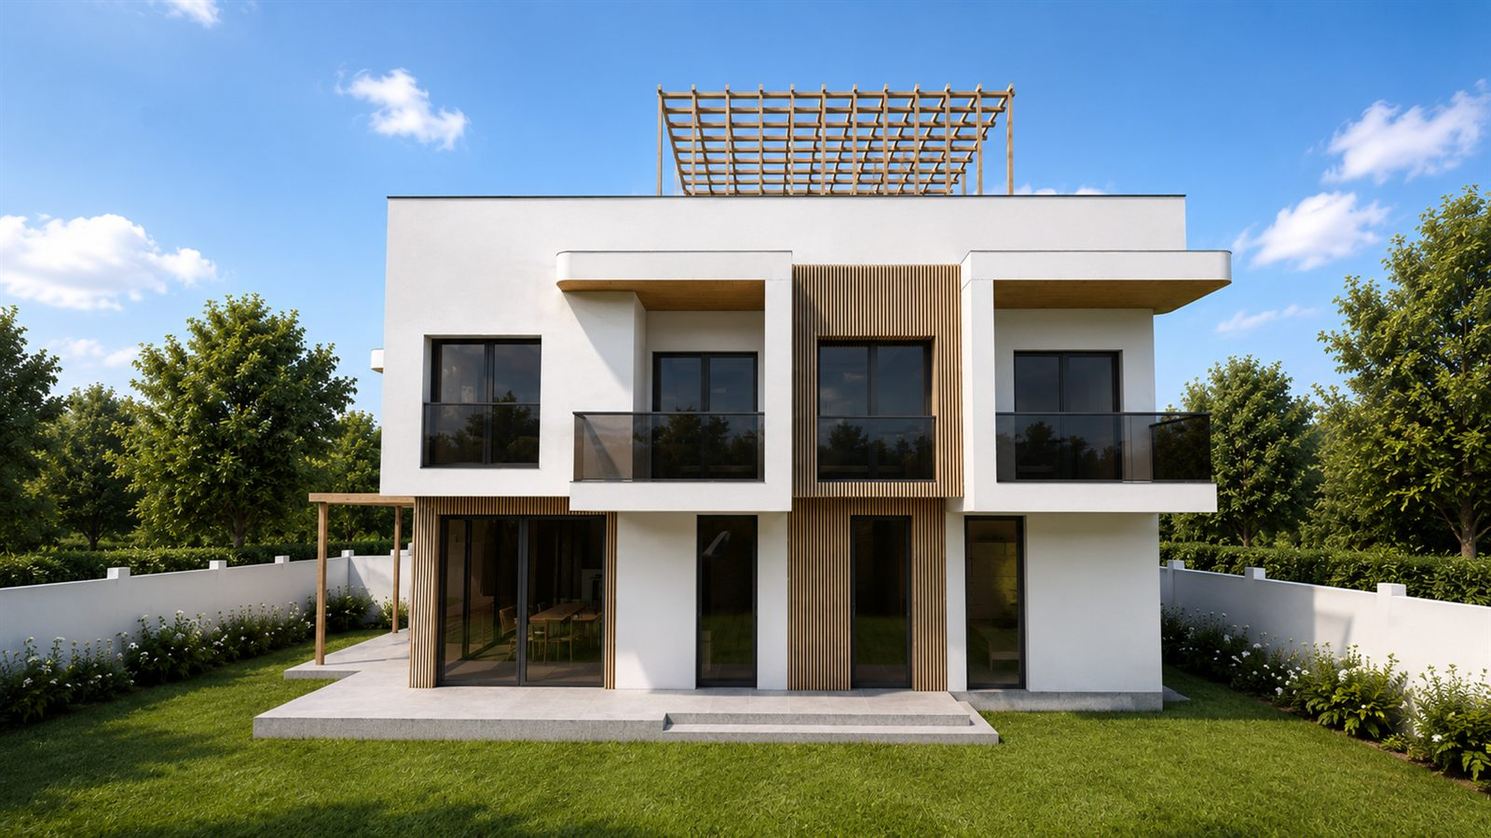
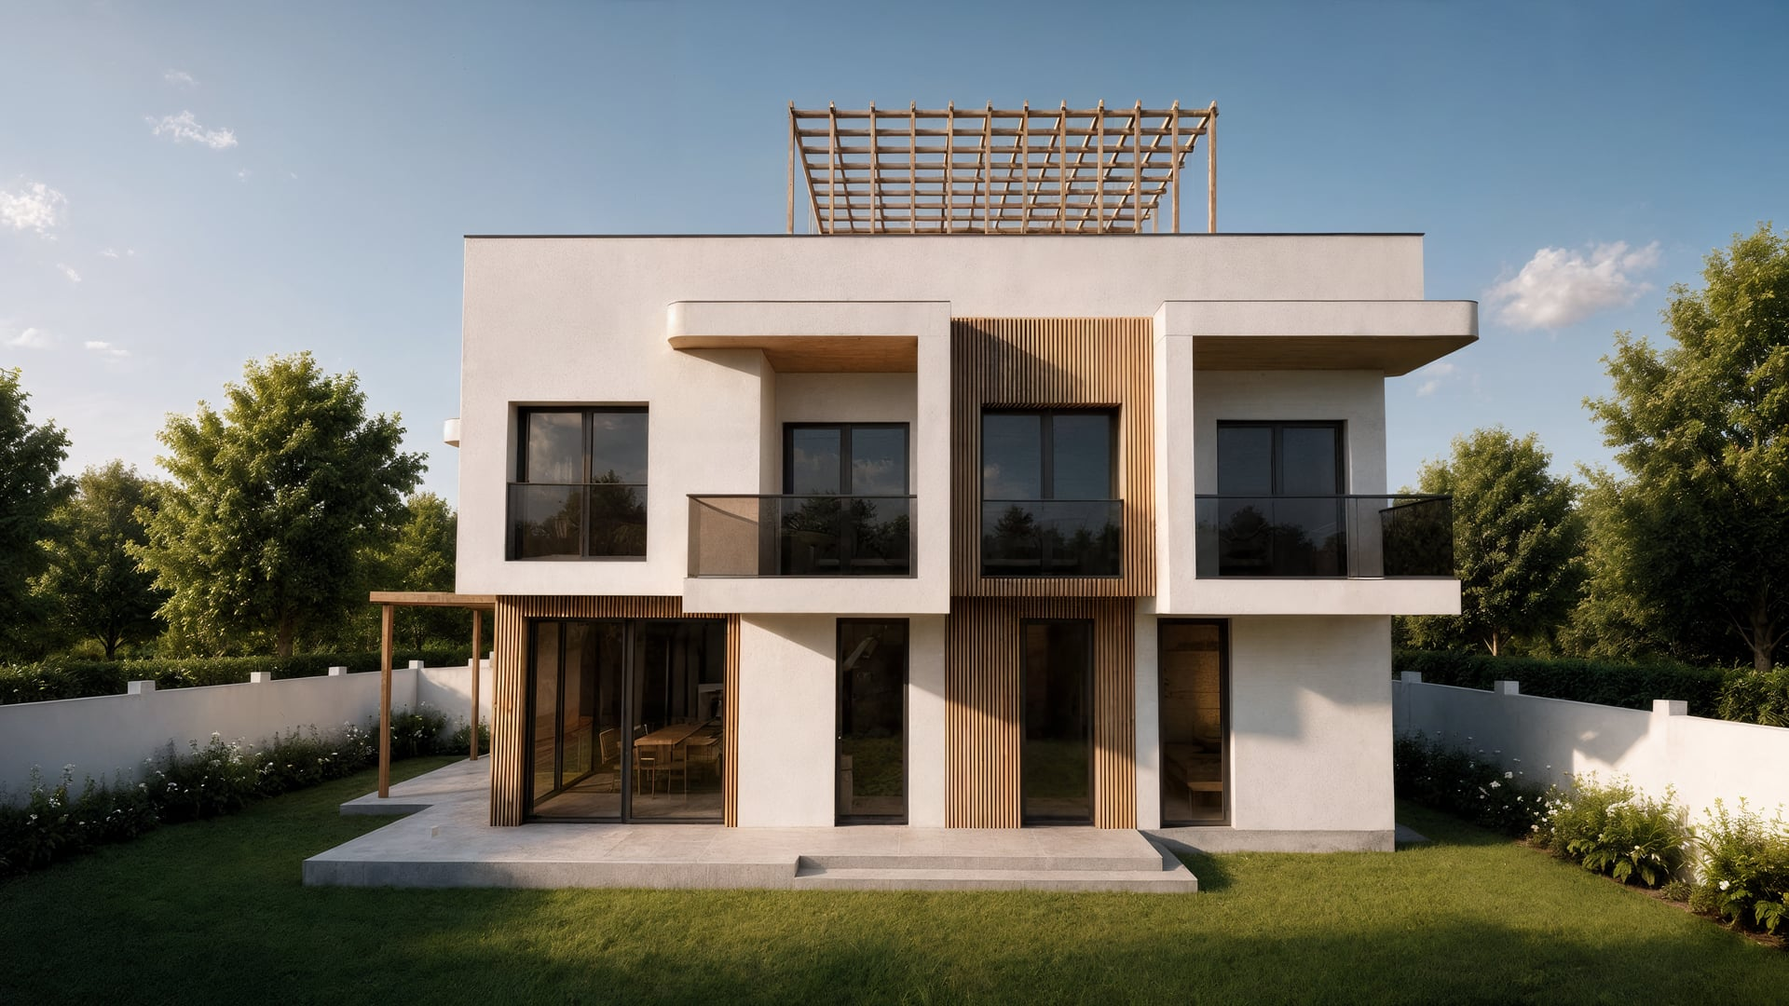
tweak: intro redesign, hero count-up sync, copy fixes, h-17 photos
- home intro: minimalist wide redesign — two-level heading (title + lighter
  subtitle), single full-width column, airier type; enriched keyword-rich
  collapsible SEO copy (KA + EN)
- hero count-up: all three stats now finish together (softer easeOutQuad so the
  rating doesn't settle early) and run 1s longer (2s -> 3s)
- service pages: "18+" -> "1000+"; private house "class 2" -> "class 2 and 3";
  class-1 stats spelled out ("მარტ./სწრაფ." -> "მარტივი/სწრაფი")
- project h-17: refreshed photos, optimized 28.6MB -> 0.97MB (q85, 1920px)

diff --git a/src/components/services/serviceContent.js b/src/components/services/serviceContent.js
@@ -43,7 +43,7 @@ export const serviceContent = {
       imageAlt: "არქიტექტურული პროექტირება, ნახაზები და დაგეგმარება — Asymmetry",
     },
     stats: [
-      { v: "18+", l: "დასრულებული პროექტი" },
+      { v: "1000+", l: "დასრულებული პროექტი" },
       { v: "5.0★", l: "შეფასება Google-ზე" },
       { v: "A–Z", l: "სრული ციკლი ერთ გუნდში" },
       { v: "6", l: "საპროექტო მიმართულება" },
@@ -208,14 +208,14 @@ export const serviceContent = {
     metaTitle:
       "კერძო სახლის პროექტირება — ფასი, ვადები, ეტაპები | Asymmetry",
     metaDescription:
-      "კერძო (მე-2 კლასის) საცხოვრებელი სახლის პროექტირება საქართველოში: ესკიზური და სამუშაო პროექტი, 3D ვიზუალიზაცია, კონსტრუქცია და მშენებლობის ნებართვა. გაიგეთ ფასი, ვადები და ეტაპები — Asymmetry.",
+      "კერძო (მე-2 და მე-3 კლასის) საცხოვრებელი სახლის პროექტირება საქართველოში: ესკიზური და სამუშაო პროექტი, 3D ვიზუალიზაცია, კონსტრუქცია და მშენებლობის ნებართვა. გაიგეთ ფასი, ვადები და ეტაპები — Asymmetry.",
     hero: {
       eyebrow: "ინდივიდუალური საცხოვრებელი სახლი",
       h1: "კერძო სახლის პროექტირება",
       lead:
-        "ოცნების სახლი კონკრეტული ნაკვეთისთვის, ბიუჯეტისა და ცხოვრების წესისთვის მორგებული. ვქმნით ინდივიდუალური (მე-2 კლასის) საცხოვრებელი სახლის სრულ პროექტს — ესკიზური კონცეფციიდან სამუშაო ნახაზებამდე და მშენებლობის ნებართვამდე.",
+        "ოცნების სახლი კონკრეტული ნაკვეთისთვის, ბიუჯეტისა და ცხოვრების წესისთვის მორგებული. ვქმნით ინდივიდუალური (მე-2 და მე-3 კლასის) საცხოვრებელი სახლის სრულ პროექტს — ესკიზური კონცეფციიდან სამუშაო ნახაზებამდე და მშენებლობის ნებართვამდე.",
       badges: [
-        "მე-2 კლასის შენობა",
+        "მე-2 და მე-3 კლასის შენობა",
         "3D ვიზუალიზაცია",
         "ხარჯთაღრიცხვა",
         "ნებართვის თანხლება",
@@ -224,8 +224,8 @@ export const serviceContent = {
       imageAlt: "თანამედროვე კერძო სახლის არქიტექტურული პროექტი — Asymmetry",
     },
     stats: [
-      { v: "მე-2", l: "შენობის კლასი" },
-      { v: "18+", l: "საცხოვრებელი პროექტი" },
+      { v: "2-3", l: "შენობის კლასი" },
+      { v: "1000+", l: "საცხოვრებელი პროექტი" },
       { v: "4–8", l: "კვირა — საშ. ვადა" },
       { v: "3D", l: "ვიზუალიზაცია ყოველ პროექტში" },
     ],
@@ -331,9 +331,9 @@ export const serviceContent = {
       },
     ],
     classInfo: {
-      h2: "მე-2 კლასის შენობა — რას ნიშნავს?",
+      h2: "მე-2 და მე-3 კლასის შენობა — რას ნიშნავს?",
       intro:
-        "საქართველოში შენობა-ნაგებობები რისკის მიხედვით იყოფა კლასებად. ინდივიდუალური საცხოვრებელი კერძო სახლი, როგორც წესი, მე-2 კლასს განეკუთვნება — ეს განსაზღვრავს ნებართვის პროცედურასა და საჭირო დოკუმენტაციას.",
+        "საქართველოში შენობა-ნაგებობები რისკის მიხედვით იყოფა კლასებად. ინდივიდუალური საცხოვრებელი კერძო სახლი, პარამეტრების მიხედვით, ჩვეულებრივ მე-2 ან მე-3 კლასს განეკუთვნება — ეს განსაზღვრავს ნებართვის პროცედურასა და საჭირო დოკუმენტაციას.",
       rows: [
         { k: "ტიპი", v: "ინდივიდუალური საცხოვრებელი სახლი" },
         { k: "დამახასიათებელი", v: "საშუალო სირთულის ობიექტი, დამოუკიდებელი ნაგებობა" },
@@ -376,7 +376,7 @@ export const serviceContent = {
       },
       {
         q: "კერძო სახლი რომელ კლასს განეკუთვნება?",
-        a: "ინდივიდუალური საცხოვრებელი კერძო სახლი, როგორც წესი, მე-2 კლასის შენობაა. ზუსტი კლასი დამოკიდებულია ობიექტის პარამეტრებზე და კონსულტაციაზე ზუსტდება.",
+        a: "ინდივიდუალური საცხოვრებელი კერძო სახლი, პარამეტრების მიხედვით, ჩვეულებრივ მე-2 ან მე-3 კლასის შენობაა. ზუსტი კლასი დამოკიდებულია ობიექტის პარამეტრებზე და კონსულტაციაზე ზუსტდება.",
       },
       {
         q: "პროექტში შედის თუ არა 3D ვიზუალიზაცია?",
@@ -606,8 +606,8 @@ export const serviceContent = {
     },
     stats: [
       { v: "I", l: "შენობის კლასი" },
-      { v: "მარტ.", l: "გამარტივებული ნებართვა" },
-      { v: "სწრაფ.", l: "მოკლე ვადა" },
+      { v: "მარტივი", l: "გამარტივებული ნებართვა" },
+      { v: "სწრაფი", l: "მოკლე ვადა" },
       { v: "₾", l: "ოპტიმალური ღირებულება" },
     ],
     sections: [
@@ -700,7 +700,7 @@ export const serviceContent = {
         "შენობა-ნაგებობები რისკის მიხედვით იყოფა კლასებად: რაც უფრო მაღალია კლასი, მით უფრო რთულია ობიექტი და მკაცრია ნებართვის მოთხოვნები. I კლასი ამ შკალის ყველაზე მარტივი საფეხურია.",
       rows: [
         { k: "I კლასი", v: "მარტივი, დაბალი რისკის ნაგებობა — გამარტივებული რეჟიმი" },
-        { k: "II კლასი", v: "ინდივიდუალური საცხოვრებელი (კერძო) სახლი" },
+        { k: "II–III კლასი", v: "ინდივიდუალური საცხოვრებელი (კერძო) სახლი" },
         { k: "III+ კლასი", v: "მრავალბინიანი, საზოგადოებრივი და კომერციული ობიექტები" },
       ],
     },

diff --git a/src/components/home/intro/homeIntro.css b/src/components/home/intro/homeIntro.css
@@ -1,108 +1,122 @@
-/* Keyword-rich intro block under the hero */
+/* ============================================================================
+   Home intro — minimalist, premium, keyword-rich block under the hero.
+   One tight centred column: the heading and the (collapsible, SEO) paragraph
+   share the SAME width. Light FiraGO 500 heading, airy body, quiet toggle.
+   ============================================================================ */
 .home-intro {
-  padding: 46px 0 6px;
+  padding: 66px 0 10px;
   text-align: center;
 }
-/* wider container so the intro paragraph reads in ~2 lines on desktop */
+/* one wide column that BOTH the heading and the paragraph fill — so they line
+   up at the same (wide) width, spanning most of the page */
 .home-intro .container {
-  max-width: min(1520px, 94vw);
+  max-width: min(1520px, 92vw);
+  margin: 0 auto;
 }
+
 .hi-title {
   font-family: "FiraGO", "Noto Sans Georgian", sans-serif;
   font-feature-settings: "case";
-  font-weight: 700;
-  font-size: clamp(22px, 3.2vw, 30px);
+  font-weight: 500; /* lighter than before — refined, not heavy */
+  font-size: clamp(23px, 3vw, 33px);
+  letter-spacing: 0.2px;
+  line-height: 1.32;
   color: #2d3954;
-  margin: 0 0 14px;
-  line-height: 1.25;
+  margin: 0 auto 20px;
+  /* balance the centred heading into roughly equal lines (fixes mobile
+     asymmetry — no long line + short orphan) */
+  text-wrap: balance;
 }
+/* second line — a lighter, smaller descriptor under the main keyword */
+.hi-title-sub {
+  display: block;
+  margin-top: 10px;
+  font-size: 0.66em;
+  font-weight: 400;
+  letter-spacing: 0.3px;
+  line-height: 1.35;
+  color: #5b6a86;
+  text-wrap: balance;
+}
+
 .hi-rule {
   display: block;
-  width: 56px;
-  height: 4px;
+  width: 44px;
+  height: 3px;
   border-radius: 999px;
-  margin: 0 auto 10px;
+  margin: 0 auto 22px;
   background: var(--g-heading);
+  opacity: 0.9;
 }
-/* collapsed by default (clean); the text stays in the DOM so Google indexes it */
+
+/* collapsed by default (clean UI); the text stays in the DOM so Google indexes
+   it — an expandable section, not hidden text */
 .hi-more {
   max-height: 0;
   overflow: hidden;
-  transition: max-height 0.45s ease;
+  transition: max-height 0.5s ease;
 }
 .hi-more.open {
-  max-height: 500px;
+  max-height: 900px;
 }
+.hi-text {
+  margin: 0 auto 6px;
+  color: #5b6a86;
+  font-size: 16px;
+  font-weight: 400;
+  line-height: 1.9; /* airy — feels light, not a dense block */
+  text-wrap: pretty;
+}
+.hi-text b {
+  color: #2d3954;
+  font-weight: 600;
+}
+
 .hi-toggle {
   display: inline-flex;
   align-items: center;
-  gap: 5px;
-  margin: 2px auto 0;
-  padding: 6px 14px; /* override the global button padding (17px 30px) */
+  gap: 6px;
+  margin: 6px auto 0;
+  padding: 6px 4px; /* override global button padding */
   background: none;
   border: none;
   cursor: pointer;
   font-family: inherit;
-  font-weight: 700;
-  font-size: 14px;
+  font-weight: 600;
+  font-size: 13.5px;
+  letter-spacing: 0.3px;
   color: #6a4ad0;
+  opacity: 0.9;
+  transition: opacity 0.2s ease;
+}
+.hi-toggle:hover {
+  opacity: 1;
 }
 .hi-toggle-ico {
-  width: 18px;
-  height: 18px;
+  width: 17px;
+  height: 17px;
   transition: transform 0.3s ease;
 }
 .hi-toggle[aria-expanded="true"] .hi-toggle-ico {
   transform: rotate(180deg);
 }
-.hi-text {
-  max-width: none;
-  margin: 0 auto 8px;
-  color: #4a5b78;
-  font-size: 16px;
-  line-height: 1.75;
-}
-.hi-text b {
-  color: #2d3954;
-}
-.hi-links {
-  display: flex;
-  flex-wrap: wrap;
-  justify-content: center;
-  gap: 10px;
-}
-.hi-chip {
-  display: inline-flex;
-  align-items: center;
-  padding: 9px 18px;
-  border-radius: 999px;
-  background: #ffffff;
-  border: 1px solid rgba(48, 43, 136, 0.1);
-  color: #4a3fa8 !important;
-  font-weight: 600;
-  font-size: 14px;
-  box-shadow: 0 8px 20px -14px rgba(48, 43, 136, 0.4);
-  transition: transform 0.22s ease, border-color 0.22s ease, box-shadow 0.22s ease;
-}
-.hi-chip:hover {
-  transform: translateY(-2px);
-  border-color: #6a4ad0;
-  box-shadow: 0 12px 26px -14px rgba(48, 43, 136, 0.45);
-}
 
 @media only screen and (max-width: 600px) {
   .home-intro {
-    padding: 34px 0 4px;
+    padding: 44px 0 6px;
   }
   .hi-text {
     font-size: 15.5px;
-    line-height: 1.7;
+    line-height: 1.85;
   }
 }
 
-/* dark mode: text on the navy ground stays readable; chips stay white */
+/* dark mode: text on the navy ground stays readable */
 :root[data-theme="dark"] .hi-title {
   color: #eef2fb;
+}
+:root[data-theme="dark"] .hi-title-sub {
+  color: #c4cfe6;
 }
 :root[data-theme="dark"] .hi-text {
   color: #c4cfe6;

diff --git a/src/translations.js b/src/translations.js
@@ -35,8 +35,8 @@ export const KA_EN = {
   // ---- home intro ----
   "არქიტექტურული სტუდია — არქიტექტურული პროექტი და მშენებლობის ნებართვა საქართველოში":
     "Architecture studio — architectural project and construction permit in Georgia",
-  "— არქიტექტურული სტუდია, რომელიც გთავაზობთ სრულ არქიტექტურულ მომსახურებას: იდეის კონცეფციიდან არქიტექტურულ პროექტამდე, პროექტის შეთანხმებამდე და მშენებლობის ნებართვამდე. ვასრულებთ კერძო სახლის, კორპუსის და 1 კლასის შენობის პროექტირებას, კონსტრუქციულ, გეოლოგიურ და გეოდეზიურ პროექტებს.":
-    "— an architecture studio offering full architectural services: from the concept to the architectural project, project approval and the construction permit. We deliver private house, apartment building and Class 1 building design, plus structural, geological and geodetic projects.",
+  "— არქიტექტურული სტუდია თბილისში, რომელიც გთავაზობთ სრულ არქიტექტურულ მომსახურებას საქართველოს მასშტაბით: არქიტექტორის კონსულტაციიდან და ესკიზური კონცეფციიდან — 3D ვიზუალიზაციამდე, სამუშაო პროექტამდე, პროექტის შეთანხმებამდე და მშენებლობის ნებართვის აღებამდე. ვასრულებთ კერძო სახლის, მრავალბინიანი კორპუსისა და 1 კლასის შენობის პროექტირებას, ასევე კონსტრუქციულ, გეოლოგიურ და გეოდეზიურ პროექტებს — გეგმარებას, ფასადებს, ხარჯთაღრიცხვასა და ავტორის ზედამხედველობას. თითოეულ ობიექტს ინდივიდუალურად ვქმნით — ფუნქციური, ესთეტიკური და ენერგოეფექტური სივრცისთვის.":
+    "— an architecture studio in Tbilisi offering full architectural services across Georgia: from an architect consultation and the sketch concept to 3D visualization, the working project, project approval and obtaining the construction permit. We deliver private house, multi-apartment building and Class 1 building design, plus structural, geological and geodetic projects — planning, facades, cost estimates and author supervision. We design every object individually — for a functional, aesthetic and energy-efficient space.",
   "მოგვყევი Facebook-ზე": "Follow us on Facebook",
   "პროექტები, ვიზუალიზაცია და არქიტექტურული რჩევები — მარტივად და სახალისოდ. აი, რას ვქმნით ჩვენს გვერდზე.":
     "Projects, visualization and architecture tips — simple and fun. This is what we make on our page.",

diff --git a/src/components/home/intro/HomeIntro.jsx b/src/components/home/intro/HomeIntro.jsx
@@ -14,7 +14,10 @@ const HomeIntro = () => {
     <section className="home-intro" aria-label="არქიტექტურული მომსახურება">
       <div className="container">
         <h2 className="hi-title">
-          {tr("არქიტექტურული პროექტირება - არქიტექტურული პროექტი და მშენებლობის ნებართვა")}
+          {tr("არქიტექტურული პროექტირება")}
+          <span className="hi-title-sub">
+            {tr("არქიტექტურული პროექტი და მშენებლობის ნებართვა")}
+          </span>
         </h2>
         <span className="hi-rule" />
 
@@ -22,7 +25,7 @@ const HomeIntro = () => {
           <p className="hi-text">
             <b>Asymmetry</b>{" "}
             {tr(
-              "— არქიტექტურული სტუდია, რომელიც გთავაზობთ სრულ არქიტექტურულ მომსახურებას: იდეის კონცეფციიდან არქიტექტურულ პროექტამდე, პროექტის შეთანხმებამდე და მშენებლობის ნებართვამდე. ვასრულებთ კერძო სახლის, კორპუსის და 1 კლასის შენობის პროექტირებას, კონსტრუქციულ, გეოლოგიურ და გეოდეზიურ პროექტებს."
+              "— არქიტექტურული სტუდია თბილისში, რომელიც გთავაზობთ სრულ არქიტექტურულ მომსახურებას საქართველოს მასშტაბით: არქიტექტორის კონსულტაციიდან და ესკიზური კონცეფციიდან — 3D ვიზუალიზაციამდე, სამუშაო პროექტამდე, პროექტის შეთანხმებამდე და მშენებლობის ნებართვის აღებამდე. ვასრულებთ კერძო სახლის, მრავალბინიანი კორპუსისა და 1 კლასის შენობის პროექტირებას, ასევე კონსტრუქციულ, გეოლოგიურ და გეოდეზიურ პროექტებს — გეგმარებას, ფასადებს, ხარჯთაღრიცხვასა და ავტორის ზედამხედველობას. თითოეულ ობიექტს ინდივიდუალურად ვქმნით — ფუნქციური, ესთეტიკური და ენერგოეფექტური სივრცისთვის."
             )}
           </p>
         </div>

diff --git a/src/components/home/hero/CountUp.jsx b/src/components/home/hero/CountUp.jsx
@@ -1,7 +1,9 @@
 import { useEffect, useRef, useState } from "react";
 
-// ease-out so the numbers rush up then settle, like studiolingo.ge
-const easeOutCubic = (t) => 1 - Math.pow(1 - t, 3);
+// Gentle ease-out (quad) so the numbers rush up then settle — softer than cubic
+// so the small-magnitude counter (e.g. the 5.0 rating) keeps ticking almost to
+// the very end and all three finish visually together, not early.
+const easeOut = (t) => 1 - Math.pow(1 - t, 2);
 
 const formatValue = (val, decimals, separator) => {
   let s = val.toFixed(decimals);
@@ -39,7 +41,7 @@ const CountUp = ({
       const t0 = performance.now();
       const tick = (now) => {
         const p = Math.min((now - t0) / duration, 1);
-        setVal(end * easeOutCubic(p));
+        setVal(end * easeOut(p));
         if (p < 1) rafId = requestAnimationFrame(tick);
         else setVal(end);
       };

diff --git a/src/components/home/hero/Hero.jsx b/src/components/home/hero/Hero.jsx
@@ -65,6 +65,7 @@ const Hero = () => {
                   decimals={s.decimals}
                   suffix={s.suffix}
                   separator={s.separator}
+                  duration={3000}
                 />
                 <span className="hero-stat-label">{s.label}</span>
               </div>
